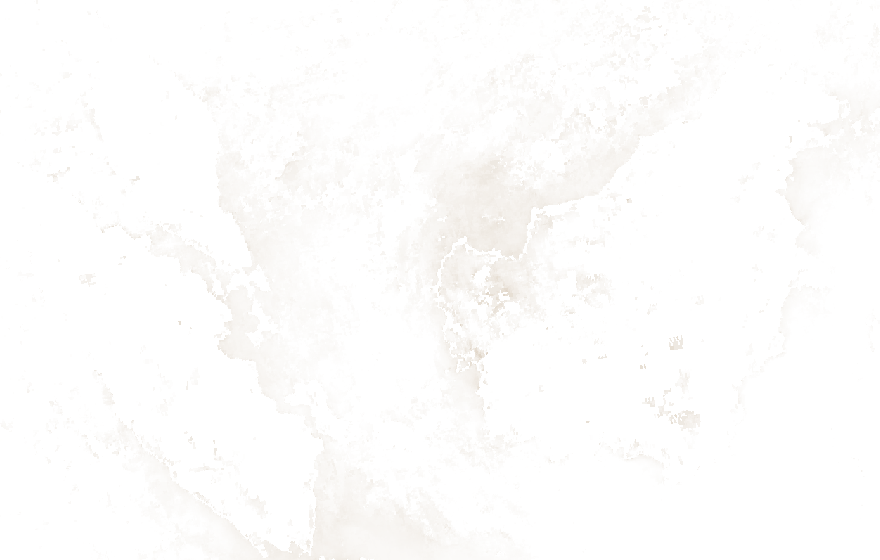
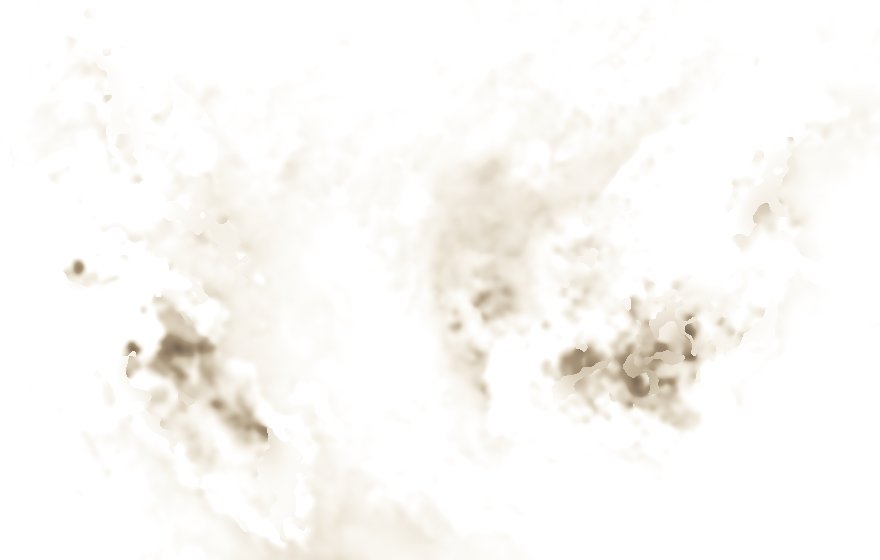
Green tree-cover base, filled smoke plume, smoke view hides radar
Base layer shows June tree cover in green and other land in grey, so red
loss reads against it; the faint forest toggle is gone. Smoke holes are
filled from neighbouring steps and nearby readings, smoothed, and drawn in a
smoke palette. Turning smoke on hides the radar layers: the view a normal
satellite has.

diff --git a/app.js b/app.js
@@ -21,8 +21,7 @@
 
   if (meta.smoke) L.imageOverlay("data/basemap_region.jpg", region, { opacity: 0.55 }).addTo(map);  // Sumatra to Sulawesi
   else L.imageOverlay("data/basemap.jpg", bounds, { opacity: 0.55 }).addTo(map);
-  L.imageOverlay("data/base_hv.png", bounds, { opacity: 0.85, className: "pixelated" }).addTo(map);
-  const forest = L.imageOverlay("data/forest.png", bounds).addTo(map);
+  const radarBase = L.imageOverlay("data/base_hv.png", bounds, { opacity: 0.9, className: "pixelated" }).addTo(map);
   const peat = L.imageOverlay("data/peat.png", bounds, { className: "pixelated" });
 
   map.createPane("loss").style.zIndex = 420;  // above the fire dots (410), which sit above the radar base (400)
@@ -48,6 +47,11 @@
   function drawSmoke() {
     const on = document.getElementById("tSmoke").checked;
     smoke.forEach((o, j) => o.setOpacity(on && j === current ? 1 : 0));
+    // Smoke on is the view a normal satellite has: the radar layers step aside until it is turned off.
+    radarBase.setOpacity(on ? 0 : 0.9);
+    map.getPane("loss").style.opacity = on ? 0 : 1;
+    map.getPane("peatburn").style.opacity = on ? 0 : 1;
+    map.getPane("fires").style.opacity = on ? 0 : 0.45;
     for (const [c, m, name] of cityMarkers) {
       const v = c.aod[current];
       const level = v == null ? "none" : v >= 1 ? "thick" : v >= 0.3 ? "hazy" : "clear";
@@ -118,7 +122,6 @@
     }, 900);
   });
   slider.addEventListener("input", () => show(+slider.value));
-  document.getElementById("tForest").addEventListener("change", (e) => e.target.checked ? forest.addTo(map) : forest.remove());
   document.getElementById("tPeat").addEventListener("change", (e) => { e.target.checked ? peat.addTo(map) : peat.remove(); show(current); });
   document.getElementById("tSmoke").addEventListener("change", (e) => {
     document.getElementById("smokeNote").hidden = !e.target.checked;

diff --git a/index.html b/index.html
@@ -14,7 +14,7 @@
     <header>
       <p class="kicker">NISAR L-band radar · Indonesian Borneo · 2026</p>
       <h1>Borneo through the smoke</h1>
-      <p class="lede">Red is forest whose radar echo collapsed since June: canopy the satellite stopped hearing.</p>
+      <p class="lede"><span class="key green"></span>Green is tree cover in June. <span class="key red"></span>Red is canopy whose radar echo collapsed since: trees the satellite stopped hearing. <span class="key grey"></span>Grey had no tree cover.</p>
     </header>
 
     <section class="readout" aria-live="polite">
@@ -29,11 +29,10 @@
     </section>
 
     <section class="layers">
-      <label><input type="checkbox" id="tForest" checked> Forest in June</label>
       <label><input type="checkbox" id="tPeat"> Peat: dark = burned peat (the CO₂)</label>
       <label><input type="checkbox" id="tFires"> Fire detections (FIRMS)</label>
       <label><input type="checkbox" id="tSmoke"> Smoke over the region (NASA VIIRS)</label>
-      <p class="smokenote" id="smokeNote" hidden>Haze is what normal satellites see. Numbers are aerosol optical depth: under 0.3 is clear, over 1 is thick smoke.</p>
+      <p class="smokenote" id="smokeNote" hidden>Haze is what normal satellites see. Holes are filled from the steps either side and nearby readings. Numbers are aerosol optical depth: under 0.3 is clear, over 1 is thick smoke.</p>
       <div class="agree" id="agree" hidden></div>
     </section>
 

diff --git a/style.css b/style.css
@@ -94,3 +94,7 @@ footer { margin-top: auto; display: grid; gap: 10px; }
 .city.thick { border-left-color: #ff5a36; }
 .city.none { border-left-color: #556; color: var(--muted); font-weight: 400; }
 @media (max-width: 700px) { .city { font-size: 10px; padding: 2px 5px; } }
+.key { display: inline-block; width: 10px; height: 10px; border-radius: 2px; margin: 0 5px 0 2px; vertical-align: 0; }
+.key.green { background: #3f7a52; }
+.key.red { background: #ff3a28; }
+.key.grey { background: #5a5e5c; }
